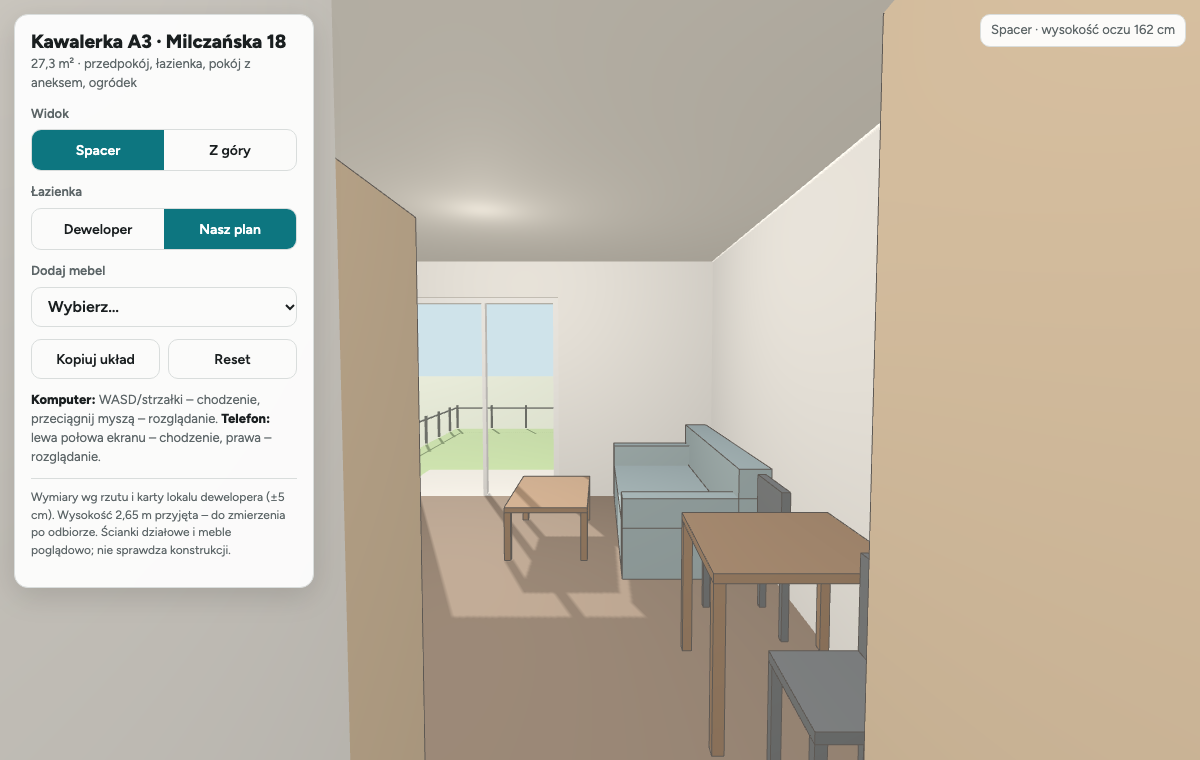
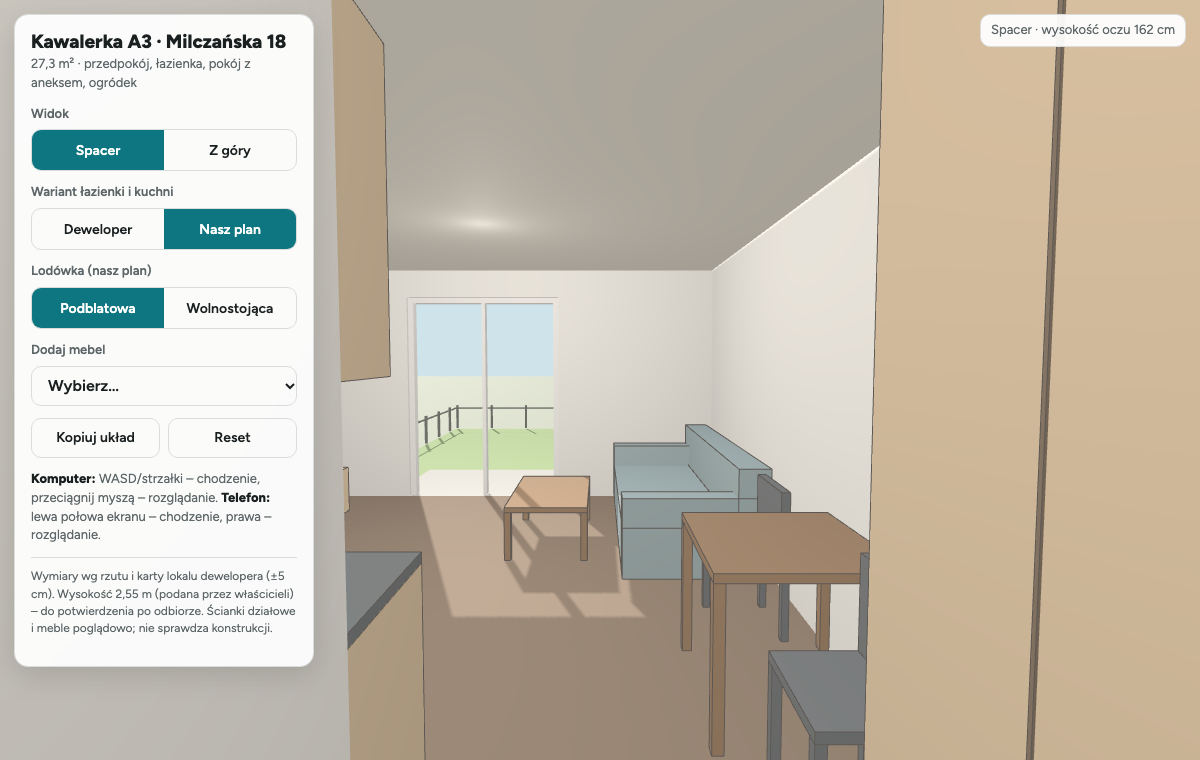
kuchnia poprawiona szafki 40 bez lodowki

diff --git a/index.html b/index.html
@@ -58,8 +58,10 @@ button:focus-visible,select:focus-visible,input:focus-visible{outline:2px solid 
  <p class="sub">27,3 m² · przedpokój, łazienka, pokój z aneksem, ogródek</p>
  <div class="lbl">Widok</div>
  <div class="seg" id="mode"><button data-m="walk" class="on">Spacer</button><button data-m="top">Z góry</button></div>
- <div class="lbl">Łazienka</div>
+ <div class="lbl">Wariant łazienki i kuchni</div>
  <div class="seg" id="bath"><button data-v="dev">Deweloper</button><button data-v="nasz" class="on">Nasz plan</button></div>
+ <div id="frBox"><div class="lbl">Lodówka (nasz plan)</div>
+ <div class="seg" id="fridge"><button data-f="pod" class="on">Podblatowa</button><button data-f="wolna">Wolnostojąca</button></div></div>
  <div class="lbl">Dodaj mebel</div>
  <select id="add"><option value="">Wybierz…</option></select>
  <div id="sel" hidden>
@@ -74,12 +76,12 @@ button:focus-visible,select:focus-visible,input:focus-visible{outline:2px solid 
  <div class="row" style="margin-top:12px"><button class="b" id="copy">Kopiuj układ</button><button class="b" id="reset">Reset</button></div>
  <textarea id="copybox" readonly aria-label="Układ do skopiowania"></textarea>
  <p class="help" id="help"></p>
- <p class="note">Wymiary wg rzutu i karty lokalu dewelopera (±5 cm). Wysokość 2,65 m przyjęta – do zmierzenia po odbiorze. Ścianki działowe i meble poglądowo; nie sprawdza konstrukcji.</p>
+ <p class="note">Wymiary wg rzutu i karty lokalu dewelopera (±5 cm). Wysokość 2,55 m (podana przez właścicieli) – do potwierdzenia po odbiorze. Ścianki działowe i meble poglądowo; nie sprawdza konstrukcji.</p>
 </div>
 <script src="https://cdnjs.cloudflare.com/ajax/libs/three.js/r128/three.min.js"></script>
 <script>
 {
-const H=2.65, DOOR=2.05, GDOOR=2.25, EYE=1.62;
+const H=2.55, DOOR=2.05, GDOOR=2.25, EYE=1.62;
 const hud=document.getElementById('hud');
 if(!window.THREE){hud.textContent='Nie udało się wczytać biblioteki 3D.';throw new Error('no three')}
 const cv=document.getElementById('c');
@@ -133,13 +135,31 @@ solids.push([-.3,-.1,6.95,12.3],[4.35,4.55,6.95,12.3],[-.3,4.55,12.15,12.3]);
 const COL={oak:0xd2a878,top:0x3b3f42,tiles:0xa9b0b2,wood:0x6e4a30,white:0xf4f3ef,grey:0x8d9396,dark:0x3b3f42,fabric:0x6f8a91,blue:0x5d7f9b};
 const DEFAULT=[];
 const R=(id,name,kind,x0,x1,z0,z1,h,color,v)=>DEFAULT.push({id,name,kind,x:(x0+x1)/2,z:(z0+z1)/2,w:x1-x0,d:z1-z0,h,rot:0,color,v:v||'all'});
+const RX=(o)=>Object.assign(DEFAULT[DEFAULT.length-1],o); // dodatkowe pola ostatnio dodanego mebla
 // przedpokój
-R('szafaP','Szafa w przedpokoju','wardrobe',0,.6,.32,2.04,2.4,COL.oak);
-// kuchnia (wg karty dewelopera)
-R('lod','Lodówka (zabudowa)','tall',1.9,2.52,2.07,2.67,2.1,COL.oak);
-R('blat1','Blat: zmywarka + zlew','sinkc',2.52,3.65,2.07,2.67,.9,COL.oak);
-R('blat2','Blat z płytą','cook',3.65,4.25,2.76,4.63,.9,COL.oak);
-R('gorne','Szafki górne','upper',3.9,4.25,2.76,4.63,.72,COL.oak);
+R('szafaP','Szafa w przedpokoju','wardrobe',0,.6,.32,2.04,2.4,COL.oak,'dev');
+// nasz plan: zabudowa na całą wysokość + obudowa przewodu kominowego przy wejściu (wymiar przewodu przyjęty 32×30, do zmierzenia)
+R('nKom','Obudowa przewodu kominowego (GK)','upper',0,.32,.32,.62,H,COL.tiles,'nasz');
+R('nSzP1','Szafa – płytka część przed przewodem','wardrobe',.32,.6,.32,.62,H,COL.oak,'nasz');
+R('nSzP','Szafa w przedpokoju (do sufitu)','wardrobe',0,.6,.62,2.04,H,COL.oak,'nasz');RX({mods:[.47,.47,.48],face:'+x'});
+// kuchnia – deweloper (wg karty dewelopera)
+R('lod','Lodówka (zabudowa)','tall',1.9,2.52,2.07,2.67,2.1,COL.oak,'dev');
+R('blat1','Blat: zmywarka + zlew','sinkc',2.52,3.65,2.07,2.67,.9,COL.oak,'dev');
+R('blat2','Blat z płytą','cook',3.65,4.25,2.76,4.63,.9,COL.oak,'dev');
+R('gorne','Szafki górne','upper',3.9,4.25,2.76,4.63,.72,COL.oak,'dev');
+// kuchnia – nasz plan (22.11.2026): szafki wiszące 100 cm pod sufit, przy RTV tylko 3×40 cm
+// pole fr: 'pod' | 'wolna' – przełącznik „Lodówka” (tylko w „Nasz plan”)
+const UY=H-1; // dół szafek wiszących
+// a) lodówka podblatowa: jeden ciąg blatu pod łazienką
+R('nBlatP','Blat: lodówka podblatowa + zmywarka + zlew','sinkc',1.9,3.65,2.07,2.67,.9,COL.oak,'nasz');RX({fr:'pod',mods:[.6,.6,.55],sink:[1.25,1.7]});
+R('nGP','Szafki wiszące 100 cm','upper',1.9,3.65,2.07,2.42,1,COL.oak,'nasz');RX({fr:'pod',y:UY,mods:[.6,.6,.55]});
+// b) lodówka wolnostojąca 60×145
+R('nLod','Lodówka wolnostojąca 60×145','fridge',1.9,2.5,2.07,2.69,1.45,COL.white,'nasz');RX({fr:'wolna'});
+R('nBlat1','Blat: zmywarka + zlew','sinkc',2.52,3.65,2.07,2.67,.9,COL.oak,'nasz');RX({fr:'wolna',mods:[.6,.53]});
+R('nGW','Szafki wiszące 100 cm','upper',1.9,3.65,2.07,2.42,1,COL.oak,'nasz');RX({fr:'wolna',y:UY,mods:[.62,.6,.53]});
+// ściana od RTV: 3 moduły po 40 cm
+R('nBlat2','Blat z płytą 2-palnikową (3×40)','cook',3.65,4.25,2.76,3.96,.9,COL.oak,'nasz');RX({hob:2,mods:[.4,.4,.4]});
+R('nG2','Szafki wiszące 100 cm (3×40)','upper',3.9,4.25,2.76,3.96,1,COL.oak,'nasz');RX({y:UY,mods:[.4,.4,.4]});
 // pokój
 R('stol','Stół','table',0,.8,2.83,3.63,.75,COL.wood);
 R('kr1','Krzesło','chair',.19,.59,2.35,2.79,.85,COL.dark);
@@ -165,14 +185,15 @@ const CATALOG=[['Łóżko 160×200','bed',1.6,2.1,.5,COL.blue],['Łóżko 140×2
 const addSel=document.getElementById('add');
 addSel.innerHTML+=CATALOG.map((c,i)=>`<option value="${i}">${c[0]}</option>`).join('');
 
-let state={bath:'nasz',items:JSON.parse(JSON.stringify(DEFAULT))};
-const KEY='a3-milczanska-uklad-v5';
+let state={bath:'nasz',fridge:'pod',items:JSON.parse(JSON.stringify(DEFAULT))};
+const KEY='a3-milczanska-uklad-v7';
 try{let s=JSON.parse(localStorage.getItem(KEY));
- if(!s){s=JSON.parse(localStorage.getItem('a3-milczanska-uklad-v4'))||JSON.parse(localStorage.getItem('a3-milczanska-uklad-v3'))||JSON.parse(localStorage.getItem('a3-milczanska-uklad-v2'));
+ if(!s){s=JSON.parse(localStorage.getItem('a3-milczanska-uklad-v6'))||JSON.parse(localStorage.getItem('a3-milczanska-uklad-v5'))||JSON.parse(localStorage.getItem('a3-milczanska-uklad-v4'))||JSON.parse(localStorage.getItem('a3-milczanska-uklad-v3'))||JSON.parse(localStorage.getItem('a3-milczanska-uklad-v2'));
   if(!s){s=JSON.parse(localStorage.getItem('a3-milczanska-uklad-v1'));
    // v1 -> v2: zostają pozycje, kolory domyślnych mebli z nowej palety (kontrast)
    if(s&&s.items)s.items.forEach(it=>{const d=DEFAULT.find(x=>x.id===it.id);if(d)it.color=d.color})}
-  // starsze -> v5: łazienka „Nasz plan” z DEFAULT (zmiany 22.11.2026), reszta mebli zostaje na swoich miejscach
+  // starsze -> v7: „Nasz plan” (łazienka + kuchnia) z DEFAULT, wariant domyślnych mebli z DEFAULT; reszta mebli zostaje na swoich miejscach
+  if(s&&s.items)s.items.forEach(it=>{const d=DEFAULT.find(x=>x.id===it.id);if(d)it.v=d.v});
   if(s&&s.items)s.items=s.items.filter(it=>it.v!=='nasz').concat(JSON.parse(JSON.stringify(DEFAULT.filter(d=>d.v==='nasz'))))}
  if(s&&s.items)state=s}catch(e){}
 const save=()=>{try{localStorage.setItem(KEY,JSON.stringify(state))}catch(e){}};
@@ -181,17 +202,24 @@ const furn=new THREE.Group();scene.add(furn);
 function build(it){
  const g=new THREE.Group(),w=it.w,d=it.d,h=it.h,c=M(it.color);
  const b=(x0,x1,y0,y1,z0,z1,m=c)=>box(x0-w/2,x1-w/2,y0,y1,z0-d/2,z1-d/2,m,g);
+ // linie podziału frontów: moduły it.mods [m] wzdłuż dłuższego boku; front od strony pokoju (-x gdy d>w, chyba że face:'+x'; +z gdy w≥d)
+ const seams=(y0,y1)=>{if(!it.mods)return;const sm=M(0x4a3a2c);let t=0;it.mods.slice(0,-1).forEach(m=>{t+=m;
+  if(d>w){const xf=it.face==='+x'?w:0;b(xf-.003,xf+.003,y0,y1,t-.004,t+.004,sm)}else b(t-.004,t+.004,y0,y1,d-.002,d+.003,sm)})};
  switch(it.kind){
   case'sofa':b(0,w,.1,.45,0,d);
    if(w<d){b(0,.22,.45,h,0,d);b(0,w,.1,.65,0,.18);b(0,w,.1,.65,d-.18,d)}else{b(0,w,.45,h,0,.22);b(0,.18,.1,.65,0,d);b(w-.18,w,.1,.65,0,d)}break;
   case'bed':b(0,w,0,.3,0,d,M(COL.wood));b(.03,w-.03,.3,h,.08,d-.03,M(0xf1efe9));b(0,w,0,1,0,.08,M(COL.wood));b(.05,w-.05,h,h+.06,.12,.12+.45,c);break;
   case'table':b(0,w,h-.04,h,0,d);[[0,0],[w-.05,0],[0,d-.05],[w-.05,d-.05]].forEach(([x,z])=>b(x,x+.05,0,h-.04,z,z+.05));break;
   case'chair':b(0,w,.42,.46,0,d);[[0,0],[w-.04,0],[0,d-.04],[w-.04,d-.04]].forEach(([x,z])=>b(x,x+.04,0,.42,z,z+.04));if(w<d)b(0,.05,.46,h,0,d);else b(0,w,.46,h,0,.05);break;
-  case'wardrobe':b(0,w,0,h,0,d);break;
+  case'wardrobe':b(0,w,0,h,0,d);seams(.02,h-.02);break;
   case'tall':b(0,w,0,h,0,d);break;
-  case'upper':b(0,w,it.id==='gorne'?1.45:0,it.id==='gorne'?1.45+h:h,0,d);break;
-  case'sinkc':b(0,w,0,h-.04,0,d);b(0,w,h-.04,h,0,d,M(COL.top));b(w*.55,w*.9,h,h+.01,.1,d-.1,M(0xd8dcdd));break;
-  case'cook':b(0,w,0,h-.04,0,d);b(0,w,h-.04,h,0,d,M(COL.top));b(.05,w-.05,h,h+.01,d*.38,d*.38+.58,M(0x111111));break;
+  case'upper':{const y=it.y!=null?it.y:(it.id==='gorne'?1.45:0);b(0,w,y,y+h,0,d);seams(y+.01,y+h-.01)}break;
+  case'fridge':b(0,w,0,h,0,d);b(0,w,h*.62-.004,h*.62+.004,d,d+.003,M(COL.grey));b(w*.82,w*.86,h*.3,h*.55,d,d+.03,M(COL.grey));b(w*.82,w*.86,h*.7,h*.9,d,d+.03,M(COL.grey));break;
+  case'sinkc':{b(0,w,0,h-.04,0,d);seams(.1,h-.05);b(0,w,h-.04,h,0,d,M(COL.top));const[s0,s1]=it.sink||[w*.55,w*.9];b(s0,s1,h,h+.01,.1,d-.1,M(0xd8dcdd))}break;
+  case'cook':b(0,w,0,h-.04,0,d);b(0,w,h-.04,h,0,d,M(COL.top));seams(.1,h-.05);
+   if(it.hob===2){const zc=Math.min(1,d/2);b(.04,w-.04,h,h+.01,zc-.15,zc+.15,M(0x111111)); // płyta 30×52, palniki jeden za drugim
+    [w*.3,w*.7].forEach(x=>{const r=new THREE.Mesh(new THREE.CylinderGeometry(.075,.075,.004,32),M(0x555a5e));r.position.set(x-w/2,h+.012,zc-d/2);g.add(r)})}
+   else b(.05,w-.05,h,h+.01,d*.38,d*.38+.58,M(0x111111));break;
   case'tv':b(0,w,0,h,0,d);{const s=new THREE.Mesh(new THREE.BoxGeometry(.05,.7,Math.min(Math.max(w,d),1.25)),M(0x111111));if(w<d)s.position.set(w/2-.12,h+.42,0);else{s.rotation.y=Math.PI/2;s.position.set(0,h+.42,-d/2+.12)}s.castShadow=true;g.add(s)}break;
   case'sink':b(0,w,.5,h,0,d);b(.08,w-.08,h,h+.03,.08,d-.08,M(0xe9ecec));break;
   case'bath':b(0,w,0,h,0,d);b(.07,w-.07,h-.02,h+.005,.07,d-.07,M(0xdfe7ea));break;
@@ -219,14 +247,14 @@ const edgeMat=new THREE.LineBasicMaterial({color:0x1c1916});
 const glassEdgeMat=new THREE.LineBasicMaterial({color:0x6d7f86});
 function addEdges(g){g.children.slice().forEach(o=>{if(!o.isMesh)return;
  const l=new THREE.LineSegments(new THREE.EdgesGeometry(o.geometry,30),o.material===mat.glass?glassEdgeMat:edgeMat);l.raycast=()=>{};o.add(l)})}
-const visible=it=>!it.hidden&&(it.v==='all'||it.v===state.bath);
+const visible=it=>!it.hidden&&(it.v==='all'||it.v===state.bath)&&(!it.fr||it.fr===(state.fridge||'pod'));
 function rebuild(){
  while(furn.children.length)furn.remove(furn.children[0]);
  state.items.filter(visible).forEach(it=>{const g=build(it);furn.add(g);if(it.id===selId)outline(g)});
  save();syncSel()}
 function outline(g){g.traverse(o=>{if(o.isMesh&&o.material!==mat.glass){o.material=o.material.clone();o.material.emissive=new THREE.Color(0x0d7680);o.material.emissiveIntensity=.35}})}
 function footprint(it){const r=it.rot%180!==0;return r?[it.d,it.w]:[it.w,it.d]}
-function itemSolids(){return state.items.filter(it=>visible(it)&&it.kind!=='rug'&&it.id!=='gorne').map(it=>{const[fw,fd]=footprint(it);return[it.x-fw/2,it.x+fw/2,it.z-fd/2,it.z+fd/2]})}
+function itemSolids(){return state.items.filter(it=>visible(it)&&it.kind!=='rug'&&it.id!=='gorne'&&!(it.y>=1)).map(it=>{const[fw,fd]=footprint(it);return[it.x-fw/2,it.x+fw/2,it.z-fd/2,it.z+fd/2]})}
 
 // ---------- tryby kamery ----------
 let mode='walk',yaw=Math.PI,pitch=-.05,pos=new THREE.Vector3(1.25,EYE,.8);
@@ -238,7 +266,10 @@ function setMode(m){mode=m;document.querySelectorAll('#mode button').forEach(b=>
  hud.textContent=m==='walk'?'Spacer · wysokość oczu 162 cm':'Widok z góry · kliknij mebel'}
 document.querySelectorAll('#mode button').forEach(b=>b.onclick=()=>setMode(b.dataset.m));
 document.querySelectorAll('#bath button').forEach(b=>b.onclick=()=>{state.bath=b.dataset.v;markBath();if(selId&&!visible(selItem()))selId=null;rebuild()});
-function markBath(){document.querySelectorAll('#bath button').forEach(b=>b.classList.toggle('on',b.dataset.v===state.bath))}
+function markBath(){document.querySelectorAll('#bath button').forEach(b=>b.classList.toggle('on',b.dataset.v===state.bath));
+ document.querySelectorAll('#fridge button').forEach(b=>b.classList.toggle('on',b.dataset.f===(state.fridge||'pod')));
+ document.getElementById('frBox').hidden=state.bath!=='nasz'}
+document.querySelectorAll('#fridge button').forEach(b=>b.onclick=()=>{state.fridge=b.dataset.f;markBath();if(selId&&!visible(selItem()))selId=null;rebuild()});
 document.getElementById('toggle').onclick=()=>document.getElementById('panel').classList.toggle('open');
 
 // ---------- zaznaczanie i edycja ----------
@@ -252,8 +283,8 @@ document.getElementById('sRot').onclick=()=>{const it=selItem();if(it){it.rot=(i
 document.getElementById('sDel').onclick=()=>{const it=selItem();if(it){it.hidden=true;selId=null;rebuild()}};
 addSel.onchange=()=>{const c=CATALOG[addSel.value];if(!c)return;const id='u'+Date.now();
  state.items.push({id,name:c[0],kind:c[1],w:c[2],d:c[3],h:c[4],color:c[5],x:2.1,z:4.4,rot:0,v:'all'});selId=id;addSel.value='';setMode('top');rebuild()};
-document.getElementById('reset').onclick=()=>{state={bath:'nasz',items:JSON.parse(JSON.stringify(DEFAULT))};selId=null;markBath();rebuild()};
-document.getElementById('copy').onclick=()=>{const txt=JSON.stringify({lazienka:state.bath,meble:state.items.filter(visible).map(i=>({nazwa:i.name,x_cm:Math.round(i.x*100),z_cm:Math.round(i.z*100),szer:Math.round(i.w*100),gleb:Math.round(i.d*100),wys:Math.round(i.h*100),obrot:i.rot}))});
+document.getElementById('reset').onclick=()=>{state={bath:'nasz',fridge:'pod',items:JSON.parse(JSON.stringify(DEFAULT))};selId=null;markBath();rebuild()};
+document.getElementById('copy').onclick=()=>{const txt=JSON.stringify({wariant:state.bath,lodowka:state.bath==='nasz'?(state.fridge||'pod'):undefined,meble:state.items.filter(visible).map(i=>({nazwa:i.name,x_cm:Math.round(i.x*100),z_cm:Math.round(i.z*100),szer:Math.round(i.w*100),gleb:Math.round(i.d*100),wys:Math.round(i.h*100),obrot:i.rot}))});
  const box=document.getElementById('copybox');box.value=txt;
  navigator.clipboard.writeText(txt).then(()=>{hud.textContent='Układ skopiowany – wklej go w czacie'}).catch(()=>{box.style.display='block';box.select()})};
 

diff --git a/CLAUDE.md b/CLAUDE.md
@@ -25,7 +25,7 @@ na etapie koncepcji, przed decyzjami instalacyjnymi. Interfejs i komentarze po p
 ## Wymiary (z karty lokalu dewelopera, ±5 cm)
 | Element | x [m] | z [m] | uwagi |
 |---|---|---|---|
-| Wnętrze całe | 0–4,25 | 0–6,70 | wysokość H=2,65 **przyjęta, do zmierzenia** |
+| Wnętrze całe | 0–4,25 | 0–6,70 | wysokość H=2,55 (podana przez właścicieli 22.11.2026, potwierdzić po odbiorze) |
 | Przedpokój | 0–1,88 | 0–2,07 | 3,72 m², otwarty na pokój |
 | Łazienka | 2,00–4,25 | 0–1,95 | 4,28 m² |
 | Ścianka przedpokój/łazienka | 1,88–2,00 | 0–2,07 | 12 cm, drzwi łazienki z=0,35–1,15 (80 cm), nadproże 2,05 |
@@ -43,11 +43,12 @@ na etapie koncepcji, przed decyzjami instalacyjnymi. Interfejs i komentarze po p
   W widoku z góry `wallsG.scale.y=0.42`, `lintG` ukryte, sufit ukryty.
 - `DEFAULT` – lista mebli tworzona helperem `R(id,nazwa,kind,x0,x1,z0,z1,h,kolor,wariant)`.
   Obiekt mebla: `{id,name,kind,x,z (środek),w (wzdłuż x),d (wzdłuż z),h,rot (stopnie),color,v,hidden}`.
-- `v`: `'all'` | `'dev'` | `'nasz'`. Przełącznik „Łazienka” ustawia `state.bath` i pokazuje odpowiedni wariant.
+- `v`: `'all'` | `'dev'` | `'nasz'`. Przełącznik „Wariant łazienki i kuchni” ustawia `state.bath` i pokazuje odpowiedni wariant.
+- Pola opcjonalne mebla: `y` (wys. dolnej krawędzi: szafki wiszące, lustro, drabinka), `mods` (linie podziału frontów), `hob:2` (płyta 2-palnikowa), `fr` (wariant lodówki), `sink`, `face:'+x'` (front szafy od +x).
 - `build(it)` rysuje mebel wg `kind`: sofa, bed, table, chair, wardrobe, tall, upper, sinkc, cook, tv, sink,
-  bath, wc, washer, shower, showerq (półokrągły, narożnik w lokalnym +x,+z), ladder (grzejnik drabinkowy), mirror (lustro; oba z opcjonalnym `y` = wys. dolnej krawędzi), rug, plant (domyślnie prostopadłościan). Nowy rodzaj = nowy `case`.
+  bath, wc, washer, fridge, shower, showerq (półokrągły, narożnik w lokalnym +x,+z), ladder (grzejnik drabinkowy), mirror (lustro; oba z opcjonalnym `y` = wys. dolnej krawędzi), rug, plant (domyślnie prostopadłościan). Nowy rodzaj = nowy `case`.
 - `CATALOG` – meble do dodania z listy: `[nazwa, kind, w, d, h, kolor]`.
-- Stan zapisuje się w `localStorage` (klucz `a3-milczanska-uklad-v5`; v1–v4 migrują się z zachowaniem pozycji, przy migracji meble łazienki „nasz” biorą się z `DEFAULT`). Po zmianie `DEFAULT` użyj „Reset”
+- Stan zapisuje się w `localStorage` (klucz `a3-milczanska-uklad-v7`; v1–v6 migrują się z zachowaniem pozycji, przy migracji meble łazienki „nasz” biorą się z `DEFAULT`). Po zmianie `DEFAULT` użyj „Reset”
   albo podbij wersję klucza.
 - Sterowanie: Spacer (WASD/strzałki + przeciąganie myszą; telefon: lewa połowa = chodzenie, prawa = rozglądanie),
   Z góry (przeciąganie mebla, skok 5 cm; tło = obrót; kółko/szczypanie = zoom; R = obrót mebla).
@@ -64,11 +65,16 @@ na etapie koncepcji, przed decyzjami instalacyjnymi. Interfejs i komentarze po p
   lustro 60×80 nad umywalką, dół 110 cm (x 2,85–3,45);
   grzejnik drabinkowy 50×125 na ścianie z umywalką, 115 cm nad podłogą, 16 cm od prawej ściany (x 3,59–4,09; pole `y` = wys. dolnej krawędzi).
   Kielich kanalizacji 110 mm jest w narożniku przy szachcie, a rura do WC idzie w zabudowie ze spadkiem ≥2%.
-- Kuchnia = układ dewelopera (L: lodówka + zmywarka + zlew pod łazienką, płyta wzdłuż prawej ściany).
-  Do ewentualnej zmiany przez użytkownika.
+- Kuchnia: przełącznik „Wariant łazienki i kuchni” przełącza też kuchnię. „Deweloper” = układ z karty (L: lodówka w zabudowie + zmywarka + zlew pod łazienką, płyta wzdłuż prawej ściany).
+  „Nasz plan” (22.11.2026): drugi przełącznik „Lodówka” (pole `fr` + `state.fridge`): `pod` = jeden blat pod łazienką
+  x 1,90–3,65 (lodówka podblatowa 60 + zmywarka 60 + zlew 55), `wolna` = lodówka wolnostojąca 60×145 + blat zmywarka/zlew x 2,52–3,65;
+  przy ścianie od RTV tylko 3×40 cm (z 2,76–3,96) z płytą 2-palnikową 30×52; szafki wiszące 100 cm, góra pod sufitem (dół H−1 = 1,55 m).
+  Linie podziału frontów z pola `mods` (szerokości modułów w m), pozycja zlewu z `sink:[x0,x1]`.
+- Przedpokój „Nasz plan”: szafa do sufitu (z 0,62–2,04) + obudowa GK przewodu kominowego w narożniku przy wejściu
+  (x 0–0,32, z 0,32–0,62, wymiar przyjęty, do zmierzenia) z płytką szafką 28 cm przed nią. „Deweloper” = szafa 2,40 m.
 
 ## Pomysły na dalsze kroki
-- Warianty kuchni (przełącznik jak dla łazienki), łóżko vs sofa rozkładana.
+- Łóżko vs sofa rozkładana.
 - Etykiety wymiarów i odległości między meblami w widoku z góry (np. przejście ≥ 90 cm).
 - Punkty elektryczne/wod-kan jako znaczniki na ścianach.
 - Tekstury (płytki, panele), kolory ścian do wyboru.
